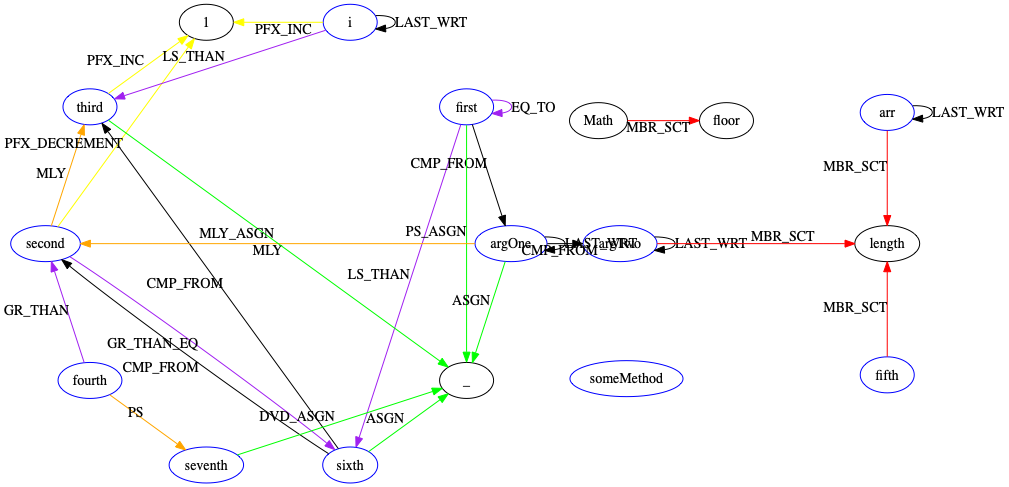
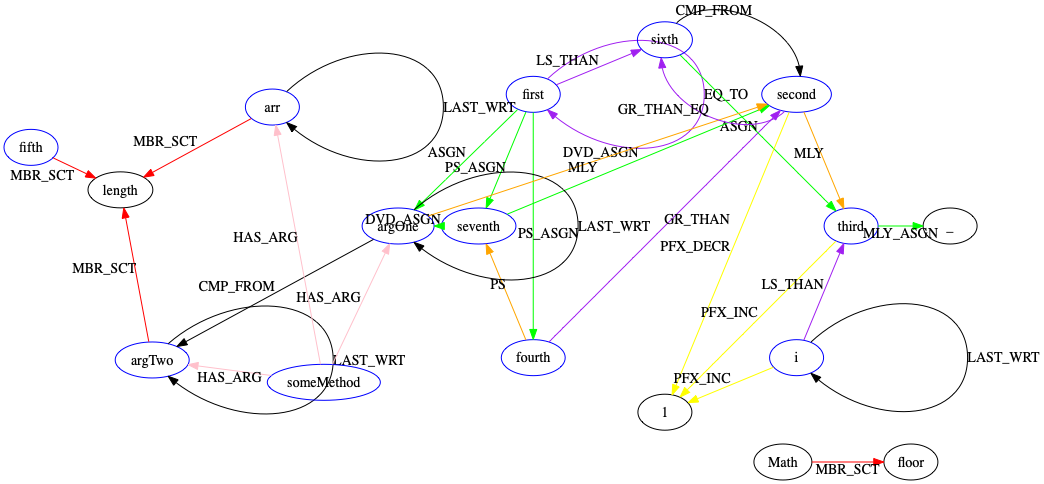
Made method robust and more reliable

diff --git a/get_dependencies.py b/get_dependencies.py
@@ -4,29 +4,13 @@ from graph_pb2 import Graph
 from graph_pb2 import FeatureNode, FeatureEdge
 from method_tokens import tokenize_methods_for_file, get_source_dict_graph, get_id_to_node_graph, tokenize_methods_for_graph
 from ast_traversal_helpers import *
-from get_members_and_types import get_type_mapping
+from get_members_and_types import get_type_mapping, is_similar_type
 
 import numpy as np
 import string
 import re
 
 import pygraphviz as pgv
-
-def get_if_arrays(root, id_mapping, source_mapping):
-    return get_subtrees_based_on_function(root, id_mapping, source_mapping, \
-        lambda node : node.type == FeatureNode.AST_ELEMENT and node.contents == "IF", set())
-
-def get_expression_operation_arrays(root, id_mapping, source_mapping):
-    return get_subtrees_based_on_function(root, id_mapping, source_mapping, \
-        lambda node : is_expression_node(node) or is_operation_token(node), set())
-
-def get_statement_branches(node, id_mapping, source_mapping):
-    return get_subtrees_based_on_function(node, id_mapping, source_mapping, \
-        lambda that_node : not is_terminal(that_node) and that_node != node, set())
-
-def get_member_select_dependencies(statement_type_node, id_mapping, source_mapping, level = 0):
-    return get_subtrees_based_on_function(statement_type_node, id_mapping, source_mapping, \
-        is_member_select_token, set())
 
 def handle_single_member_select(ms, id_mapping, source_mapping):
     branches = get_subtrees_based_on_function(ms, id_mapping, source_mapping, \
@@ -52,11 +36,6 @@ def handle_member_selects(node, id_mapping, source_mapping):
     for ms in member_selects:
         sol.extend(handle_single_member_select(ms, id_mapping, source_mapping))
     return sol
-
-
-# CONDITIONAL_AND
-# MULTIPLY_ASSIGNMENT
-# POSTFIX_DECREMENT
 
 def get_names(variables, getter = lambda x : x.contents, condition = lambda x : True):
     sol = []
@@ -88,30 +67,31 @@ def commutable_operations(inner, outer):
             return False
     return True
     
-def get_assignment_dependencies(statement_type_node, id_mapping, source_mapping, level = 0):
+def get_assignment_dependencies(statement_type_node, id_mapping, source_mapping, variable_types = None, level = 0):
     branches = get_statement_branches(statement_type_node, id_mapping, source_mapping)
     sol = []
-    # print(statement_type_node.contents, len(branches))
     if (statement_type_node.contents == "IDENTIFIER"):
         return sol
-    # print(statement_type_node.contents)
     if len(branches) == 2:
         left_variables = get_terminal_variables(branches[0], id_mapping, source_mapping)
         right_variables = get_terminal_variables(branches[1], id_mapping, source_mapping)
         lv = get_names(left_variables)
         rv = get_names(right_variables)
-        # print(lv, rv)
+        
         if len(right_variables) == 1:
             for lv in left_variables:
                     sol.append((lv.contents, right_variables[0].contents, statement_type_node.contents, level))
         else:
             inner_dependencies = get_dependencies(branches[1], id_mapping, source_mapping, level + 1)
-            # for 
-            # sol.extend(inner_dependencies)
             if (len(left_variables) == 1):
-                if (commutable_operations(list(set(map(lambda x : x[2], inner_dependencies))), statement_type_node) and len(inner_dependencies) > 0):
+                if (commutable_operations(list(set(map(lambda x : x[2], inner_dependencies))), statement_type_node.contents) \
+                    and len(inner_dependencies) > 0 and variable_types != None):
                     for inner in inner_dependencies:
-                        sol.append((left_variables[0].contents, inner[0], statement_type_node.contents, level))
+                        if is_similar_type(left_variables[0].contents, inner[0], variable_types):
+                            sol.append((left_variables[0].contents, inner[0], statement_type_node.contents, level))
+                    last = inner_dependencies[-1]
+                    if is_similar_type(left_variables[0].contents, last[1], variable_types):
+                        sol.append((left_variables[0].contents, last[1], statement_type_node.contents, level))
                 else:
                     sol.append((left_variables[0].contents, '_', statement_type_node.contents, level))
             sol.extend(inner_dependencies)
@@ -120,8 +100,6 @@ def get_assignment_dependencies(statement_type_node, id_mapping, source_mapping,
         variables = get_terminal_variables(branch, id_mapping, source_mapping)
         if (len(variables) == 1):
             sol.append((variables[0].contents, '1', statement_type_node.contents, level))
-    # else:
-    #     print(branches)
     return sol
 
 def get_existing_dependencies(root, id_mapping, source_mapping):
@@ -141,7 +119,7 @@ def get_boolean_verifiers_array(node, id_mapping, source_mapping):
     return get_subtrees_based_on_function(node, id_mapping, source_mapping, \
         is_boolean_verifier_token, set())
 
-def get_dependencies_from_expression(node, id_mapping, source_mapping, level = 0):
+def get_dependencies_from_expression(node, id_mapping, source_mapping, variable_types = None, level = 0):
     dft = []
     if not is_expression_node(node):
         return dft
@@ -150,9 +128,7 @@ def get_dependencies_from_expression(node, id_mapping, source_mapping, level = 0
         return dft
     statement_type_node = id_mapping[edges[0].destinationId]
     statement_type = statement_type_node.contents
-    # if statement_type.find("ASSIGNMENT") != -1 or is_operation_token(statement_type_node):
-    return get_assignment_dependencies(statement_type_node, id_mapping, source_mapping, level)
-    return dft
+    return get_assignment_dependencies(statement_type_node, id_mapping, source_mapping, variable_types, level)
 
 def get_dependencies_from_boolean(node, id_mapping, source_mapping, level = 0):
     dft = []
@@ -173,14 +149,40 @@ def get_dependencies_from_boolean(node, id_mapping, source_mapping, level = 0):
         for rt in right_terminals:
             dft.append((lt.contents, rt.contents, statement_type, level))
     return dft
-    
 
-def get_dependencies(root, id_mapping, source_mapping, level = 0):
+def get_method_argument_dependencies(node, id_mapping, source_mapping):
+    parameters_node = get_parameters_from_method(node, id_mapping, source_mapping)
+    method_name = get_variable_name(node, id_mapping, source_mapping)
+    dependencies = []
+    if method_name == None or method_name == '':
+        return dependencies
+    if parameters_node == None or len(parameters_node) < 1:
+        return dependencies
+    parameters_node = parameters_node[0]
+    variables_nodes = get_variables(parameters_node, id_mapping, source_mapping)
+    if variables_nodes == None or len(variables_nodes) < 1:
+        return dependencies
+    for variable_node in variables_nodes:
+        variable_name = get_variable_name(variable_node, id_mapping, source_mapping)
+        if variable_name == None or variable_name == '':
+            continue
+        dependencies.append((method_name, variable_name, 'HAS_ARG', 0))
+    return dependencies
+
+def get_all_method_argument_dependencies(root, id_mapping, source_mapping):
+    method_nodes = get_methods(root, id_mapping, source_mapping)
+    dependencies = []
+    for method_node in method_nodes:
+        current_dependencies = get_method_argument_dependencies(method_node, id_mapping, source_mapping)
+        dependencies.extend(current_dependencies)
+    return dependencies
+
+def get_dependencies(root, id_mapping, source_mapping, variable_types = None, level = 0):
     top_expressions = get_expression_operation_arrays(root, id_mapping, source_mapping)
     top_booleans = get_boolean_verifiers_array(root, id_mapping, source_mapping)
     sol = []
     for top_expression in top_expressions:
-        sol.extend(get_dependencies_from_expression(top_expression, id_mapping, source_mapping, level))
+        sol.extend(get_dependencies_from_expression(top_expression, id_mapping, source_mapping, variable_types, level))
     for top_boolean in top_booleans:
         sol.extend(get_dependencies_from_boolean(top_boolean, id_mapping, source_mapping, level))
     sol.extend(handle_member_selects(root, id_mapping, source_mapping))
@@ -192,16 +194,18 @@ def remove_level_information(dependencies):
         result.append(dependency[:-1])
     return result
 
-def get_all_dependencies(g, id_mapping = None, source_mapping = None):
+def get_all_dependencies(g, id_mapping = None, source_mapping = None, variable_types = None):
     if id_mapping == None:
         id_mapping = get_id_to_node_graph(g)
     if source_mapping == None:
         source_mapping = get_source_dict_graph(g)
     root = g.ast_root
     
-    dependencies = get_dependencies(root, id_mapping, source_mapping)
+    dependencies = get_dependencies(root, id_mapping, source_mapping, variable_types)
     existent_dependencies = get_existing_dependencies(root, id_mapping, source_mapping)
     dependencies.extend(existent_dependencies)
+    method_dependencies = get_all_method_argument_dependencies(root, id_mapping, source_mapping)
+    dependencies.extend(method_dependencies)
     dependencies = remove_level_information(dependencies)
 
     return list(set(dependencies))
@@ -223,6 +227,8 @@ def shorten(s):
         return "MNS"
     if s == "INCREMENT":
         return "INC"
+    if s == "DECREMENT":
+        return "DECR"
     if s == "POSTFIX":
         return "PFX"
     if s == "MEMBER":
@@ -261,16 +267,18 @@ def get_color(dependency_type):
         return 'yellow'
     elif is_existent(dependency_type):
         return 'black'
+    elif dependency_type == "HAS_ARG":
+        return 'pink'
     elif dependency_type == 'MEMBER_SELECT':
         return "red"
     return 'grey'
 
 def get_visual_graph(dependencies, variable_types):
-    G=pgv.AGraph(directed=True)
+    G=pgv.AGraph(directed=True, strict=True, overlap=False, splines='true', nodesep="2", forcelabels="true")
     for variable_name in variable_types.keys():
         G.add_node(variable_name, color='blue')
     for (start, end, edge_type) in dependencies:
-        G.add_edge(start, end, color=get_color(edge_type))
+        G.add_edge(start, end, color=get_color(edge_type), decorate=False)
         new_edge = G.get_edge(start, end)
         new_edge.attr['label'] = shorten(edge_type)
     return G
@@ -282,12 +290,9 @@ if __name__ == "__main__":
         graph.ParseFromString(f.read())
         id_mapping = get_id_to_node_graph(graph)
         source_mapping = get_source_dict_graph(graph)
-        # print(get_names(id_mapping.values(), lambda x : x, lambda x : x.contents == "MINUS"))
-        dependencies = get_all_dependencies(graph, id_mapping, source_mapping)
         variable_types = get_type_mapping(graph, id_mapping, source_mapping)
-        print(variable_types)
+        dependencies = get_all_dependencies(graph, id_mapping, source_mapping, variable_types)
         visual_graph = get_visual_graph(dependencies, variable_types)
 
         visual_graph.layout()
         visual_graph.draw('dependencies.png', prog='circo')
-

diff --git a/ast_traversal_helpers.py b/ast_traversal_helpers.py
@@ -44,6 +44,9 @@ def is_type_node(node):
 def is_name_node(node):
     return not is_terminal(node) and node.contents in ("NAME", "SIMPLE_NAME")
 
+def is_parameters_node(node):
+    return not is_terminal(node) and node.contents in ("PARAMETERS")
+
 def get_terminal_variables(node, id_mapping, source_mapping):
     return get_subtrees_based_on_function(node, id_mapping, source_mapping, \
         lambda node : is_terminal(node) and node.type == FeatureNode.IDENTIFIER_TOKEN, set())
@@ -51,6 +54,56 @@ def get_terminal_variables(node, id_mapping, source_mapping):
 def get_all_terminals(node, id_mapping, source_mapping):
     return get_subtrees_based_on_function(node, id_mapping, source_mapping, \
         lambda node : is_terminal(node), set())
+
+def get_if_arrays(root, id_mapping, source_mapping):
+    return get_subtrees_based_on_function(root, id_mapping, source_mapping, \
+        lambda node : node.type == FeatureNode.AST_ELEMENT and node.contents == "IF", set())
+
+def get_expression_operation_arrays(root, id_mapping, source_mapping):
+    return get_subtrees_based_on_function(root, id_mapping, source_mapping, \
+        lambda node : is_expression_node(node) or is_operation_token(node), set())
+
+def get_statement_branches(node, id_mapping, source_mapping):
+    return get_subtrees_based_on_function(node, id_mapping, source_mapping, \
+        lambda that_node : not is_terminal(that_node) and that_node != node, set())
+
+def get_member_select_dependencies(statement_type_node, id_mapping, source_mapping, level = 0):
+    return get_subtrees_based_on_function(statement_type_node, id_mapping, source_mapping, \
+        is_member_select_token, set())
+
+def get_variables(node, id_mapping, source_mapping):
+    return get_subtrees_based_on_function(node, id_mapping, source_mapping, \
+        is_variable_node, set())
+
+def get_classes(node, id_mapping, source_mapping):
+    return get_subtrees_based_on_function(node, id_mapping, source_mapping, \
+        is_class_node, set())
+
+def get_methods(node, id_mapping, source_mapping):
+    return get_subtrees_based_on_function(node, id_mapping, source_mapping, \
+        is_method_node, set())
+
+def get_parameters_from_method(node, id_mapping, source_mapping):
+    return get_subtrees_based_on_function(node, id_mapping, source_mapping, \
+        is_parameters_node, set(), 2)
+
+def get_variable_name(node, id_mapping, source_mapping):
+    name_node = get_subtrees_based_on_function(node, id_mapping, source_mapping, \
+        is_name_node, set(), 2)
+    if name_node == None or len(name_node) == 0:
+        return ''
+    name_node = name_node[0]
+    return get_all_terminals(name_node, id_mapping, source_mapping)[0].contents
+
+def get_variable_type(node, id_mapping, source_mapping):
+    type_node = get_subtrees_based_on_function(node, id_mapping, source_mapping, \
+        is_type_node, set(), 2)
+    if type_node == None or len(type_node) == 0:
+        return ''
+    type_node = type_node[0]
+    type_name_nodes = get_all_terminals(type_node, id_mapping, source_mapping)
+    return type_name_nodes[-1].contents
+
 
 def get_subtrees_based_on_function(node, id_mapping, source_mapping, tree_function, visited, max_depth = 100000):
     sol = []
@@ -68,4 +121,3 @@ def get_subtrees_based_on_function(node, id_mapping, source_mapping, tree_functi
                 sol.extend(get_subtrees_based_on_function(id_mapping.get(edge.destinationId), \
                     id_mapping, source_mapping, tree_function, visited, max_depth - 1))
     return sol
-

diff --git a/get_members_and_types.py b/get_members_and_types.py
@@ -9,57 +9,46 @@ import numpy as np
 import string
 import re
 
-def get_variables(node, id_mapping, source_mapping):
-    return get_subtrees_based_on_function(node, id_mapping, source_mapping, \
-        is_variable_node, set())
+def is_number(n):
+    is_number = True
+    try:
+        num = float(n)
+        is_number = num == num
+    except ValueError:
+        is_number = False
+    return is_number
 
-def get_classes(node, id_mapping, source_mapping):
-    return get_subtrees_based_on_function(node, id_mapping, source_mapping, \
-        is_class_node, set())
+def is_number_type(Type):
+    return Type in ('int', 'Integer', 'java.lang.Integer', \
+        'double', 'Double', 'java.lang.Double', \
+        'long', 'Long', 'java.lang.Long', \
+        'short', 'Short', 'java.lang.Short', \
+        'float', 'Float', 'java.lang.Short', \
+        'char') or \
+        is_number(Type)
 
-def get_methods(node, id_mapping, source_mapping):
-    return get_subtrees_based_on_function(node, id_mapping, source_mapping, \
-        is_method_node, set())
-
-# def get_variables_types(variables, id_mapping, source_mapping):
-#     mapping = dict()
-
-def get_name(node, id_mapping, source_mapping):
-    name_node = get_subtrees_based_on_function(node, id_mapping, source_mapping, \
-        is_name_node, set(), 2)
-    if name_node == None or len(name_node) == 0:
-        return ''
-    name_node = name_node[0]
-    return get_all_terminals(name_node, id_mapping, source_mapping)[0].contents
+def is_similar_type(first, second, type_mapping):
+    if is_number_type(first) and is_number_type(second):
+        return True
+    if first not in type_mapping or second not in type_mapping:
+        return False
+    if first == second:
+        return True
+    return (type_mapping[first] == type_mapping[second]) or \
+        (is_number_type(type_mapping[first]) and is_number_type(type_mapping[second]))
 
 def curate(name):
     if name == "LBBRACKET":
         return "["
     elif name == "RBBRACKET":
         return "]"
-    return name
-
-def get_type(node, id_mapping, source_mapping):
-    type_node = get_subtrees_based_on_function(node, id_mapping, source_mapping, \
-        is_type_node, set(), 2)
-    if type_node == None or len(type_node) == 0:
-        return ''
-    type_node = type_node[0]
-    type_name_nodes = get_all_terminals(type_node, id_mapping, source_mapping)
-    # result = ''
-    # result = type_name_nodes[-1].contents
-    # print(type_node)
-    # for type_name_node in type_name_nodes:
-    #     print(type_name_node.contents)
-    #     result += curate(type_name_node.contents)
-    return type_name_nodes[-1].contents
-    
+    return name    
 
 def compute_names_and_types(nodes, id_mapping, source_mapping):
     mapping = dict()
     for node in nodes:
-        name = get_name(node, id_mapping, source_mapping)
-        Type = get_type(node, id_mapping, source_mapping)
+        name = get_variable_name(node, id_mapping, source_mapping)
+        Type = get_variable_type(node, id_mapping, source_mapping)
         if '' in (name, Type):
             continue
         mapping[name] = Type
